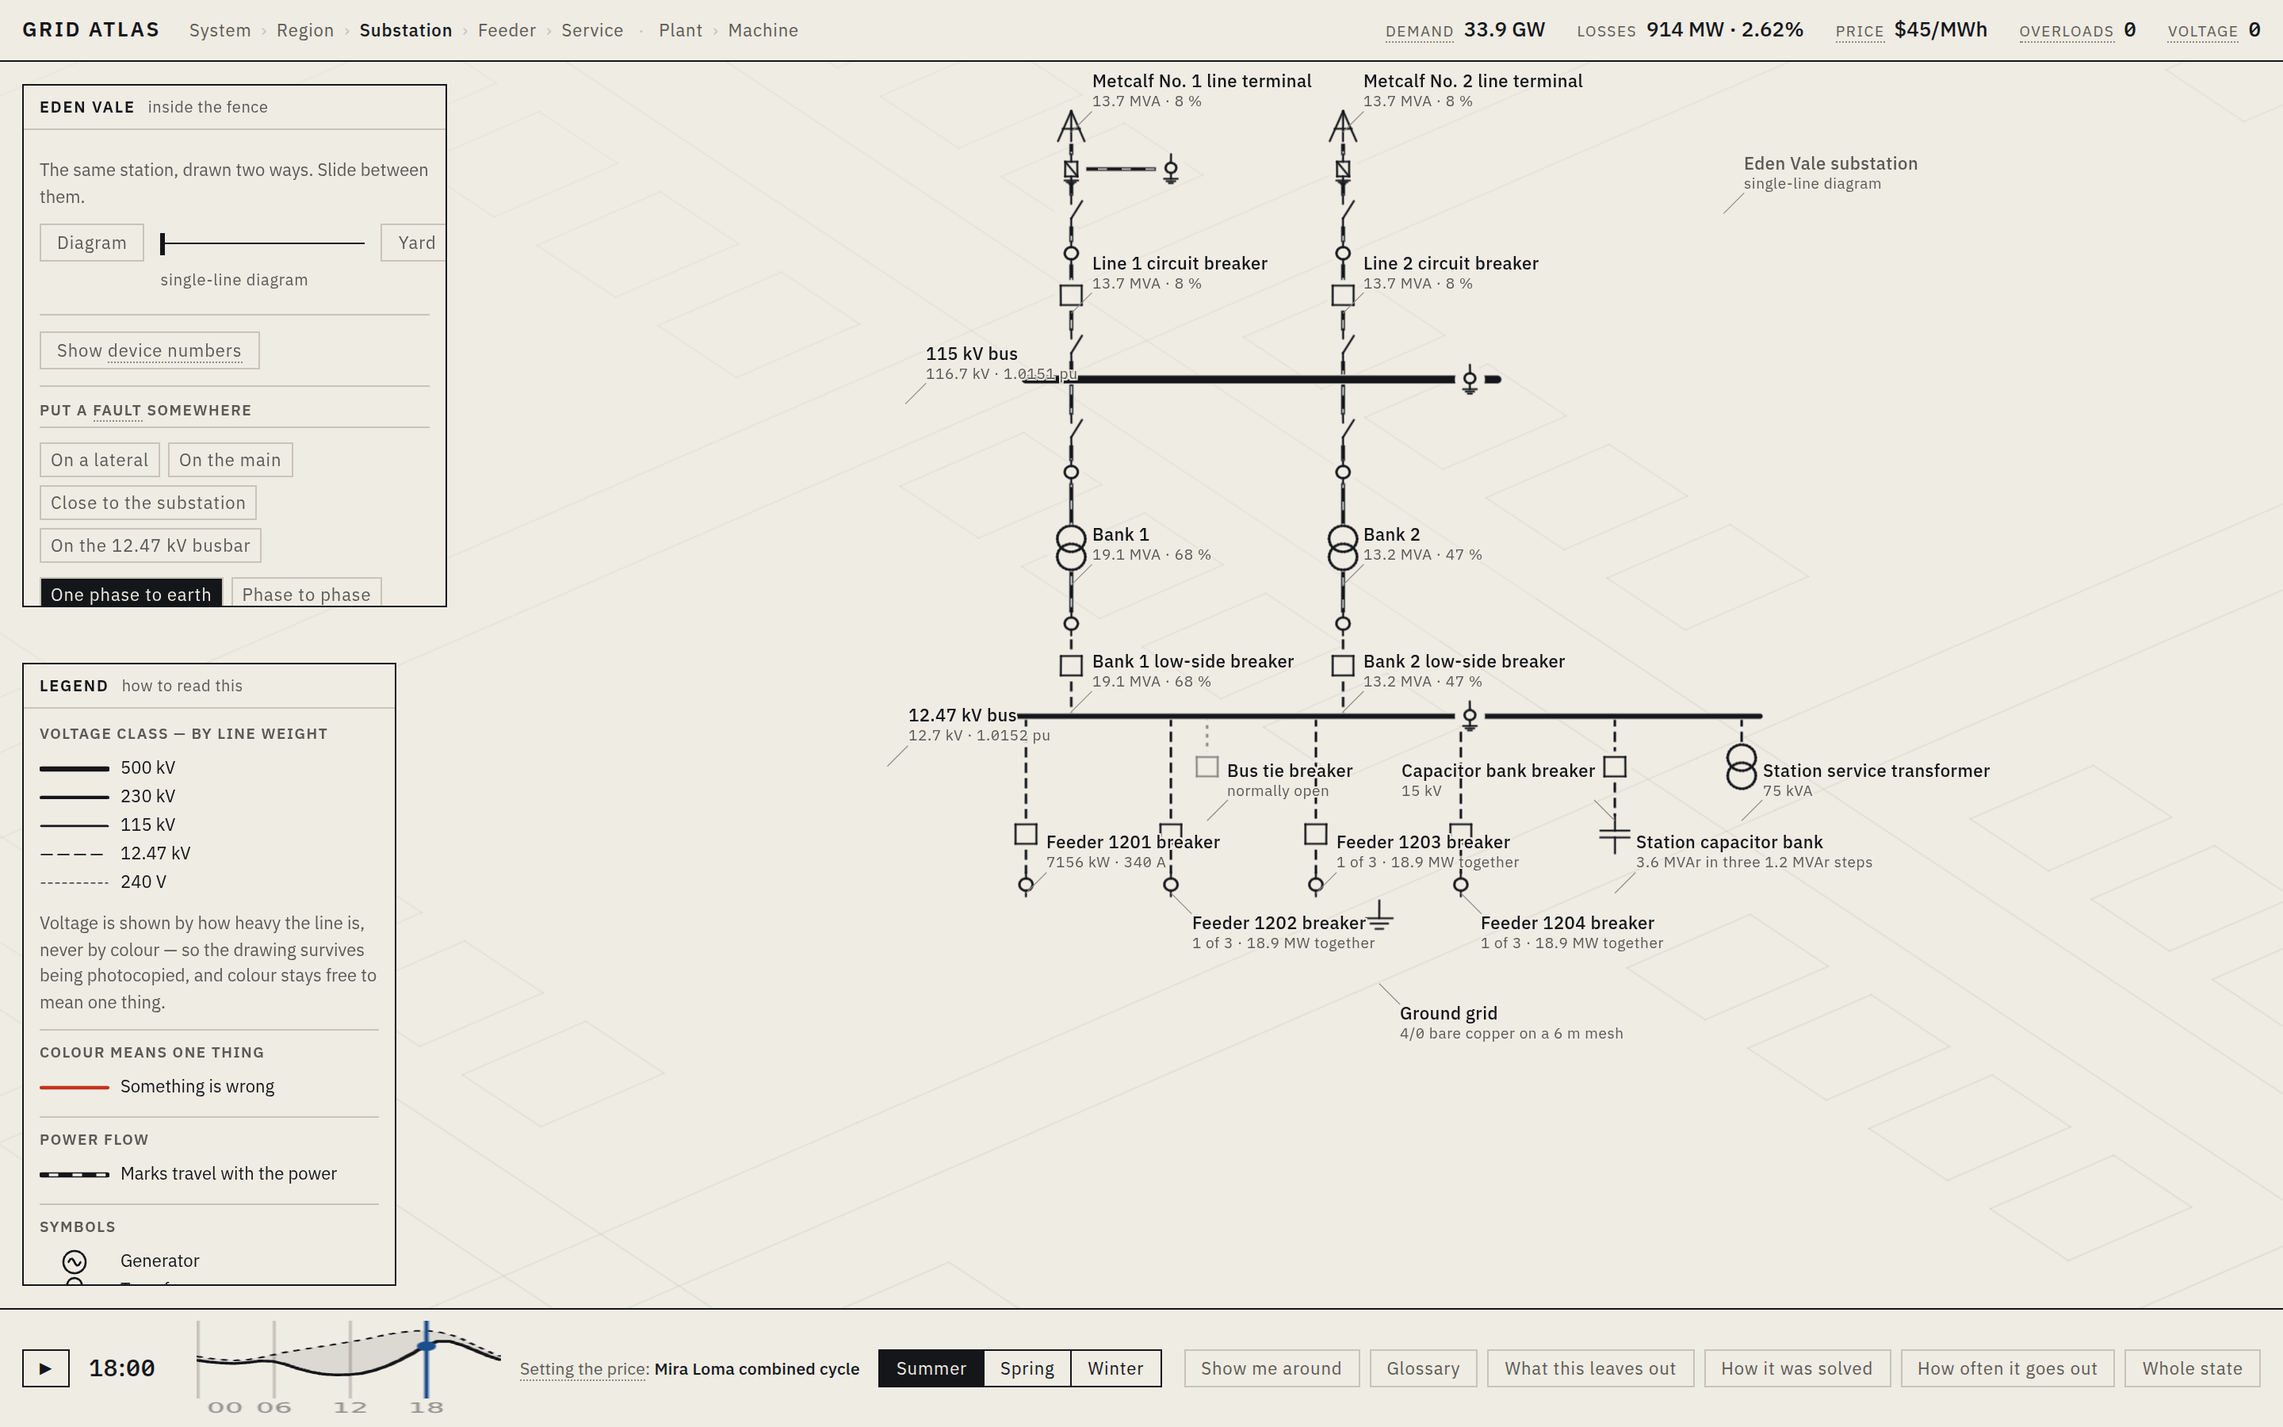
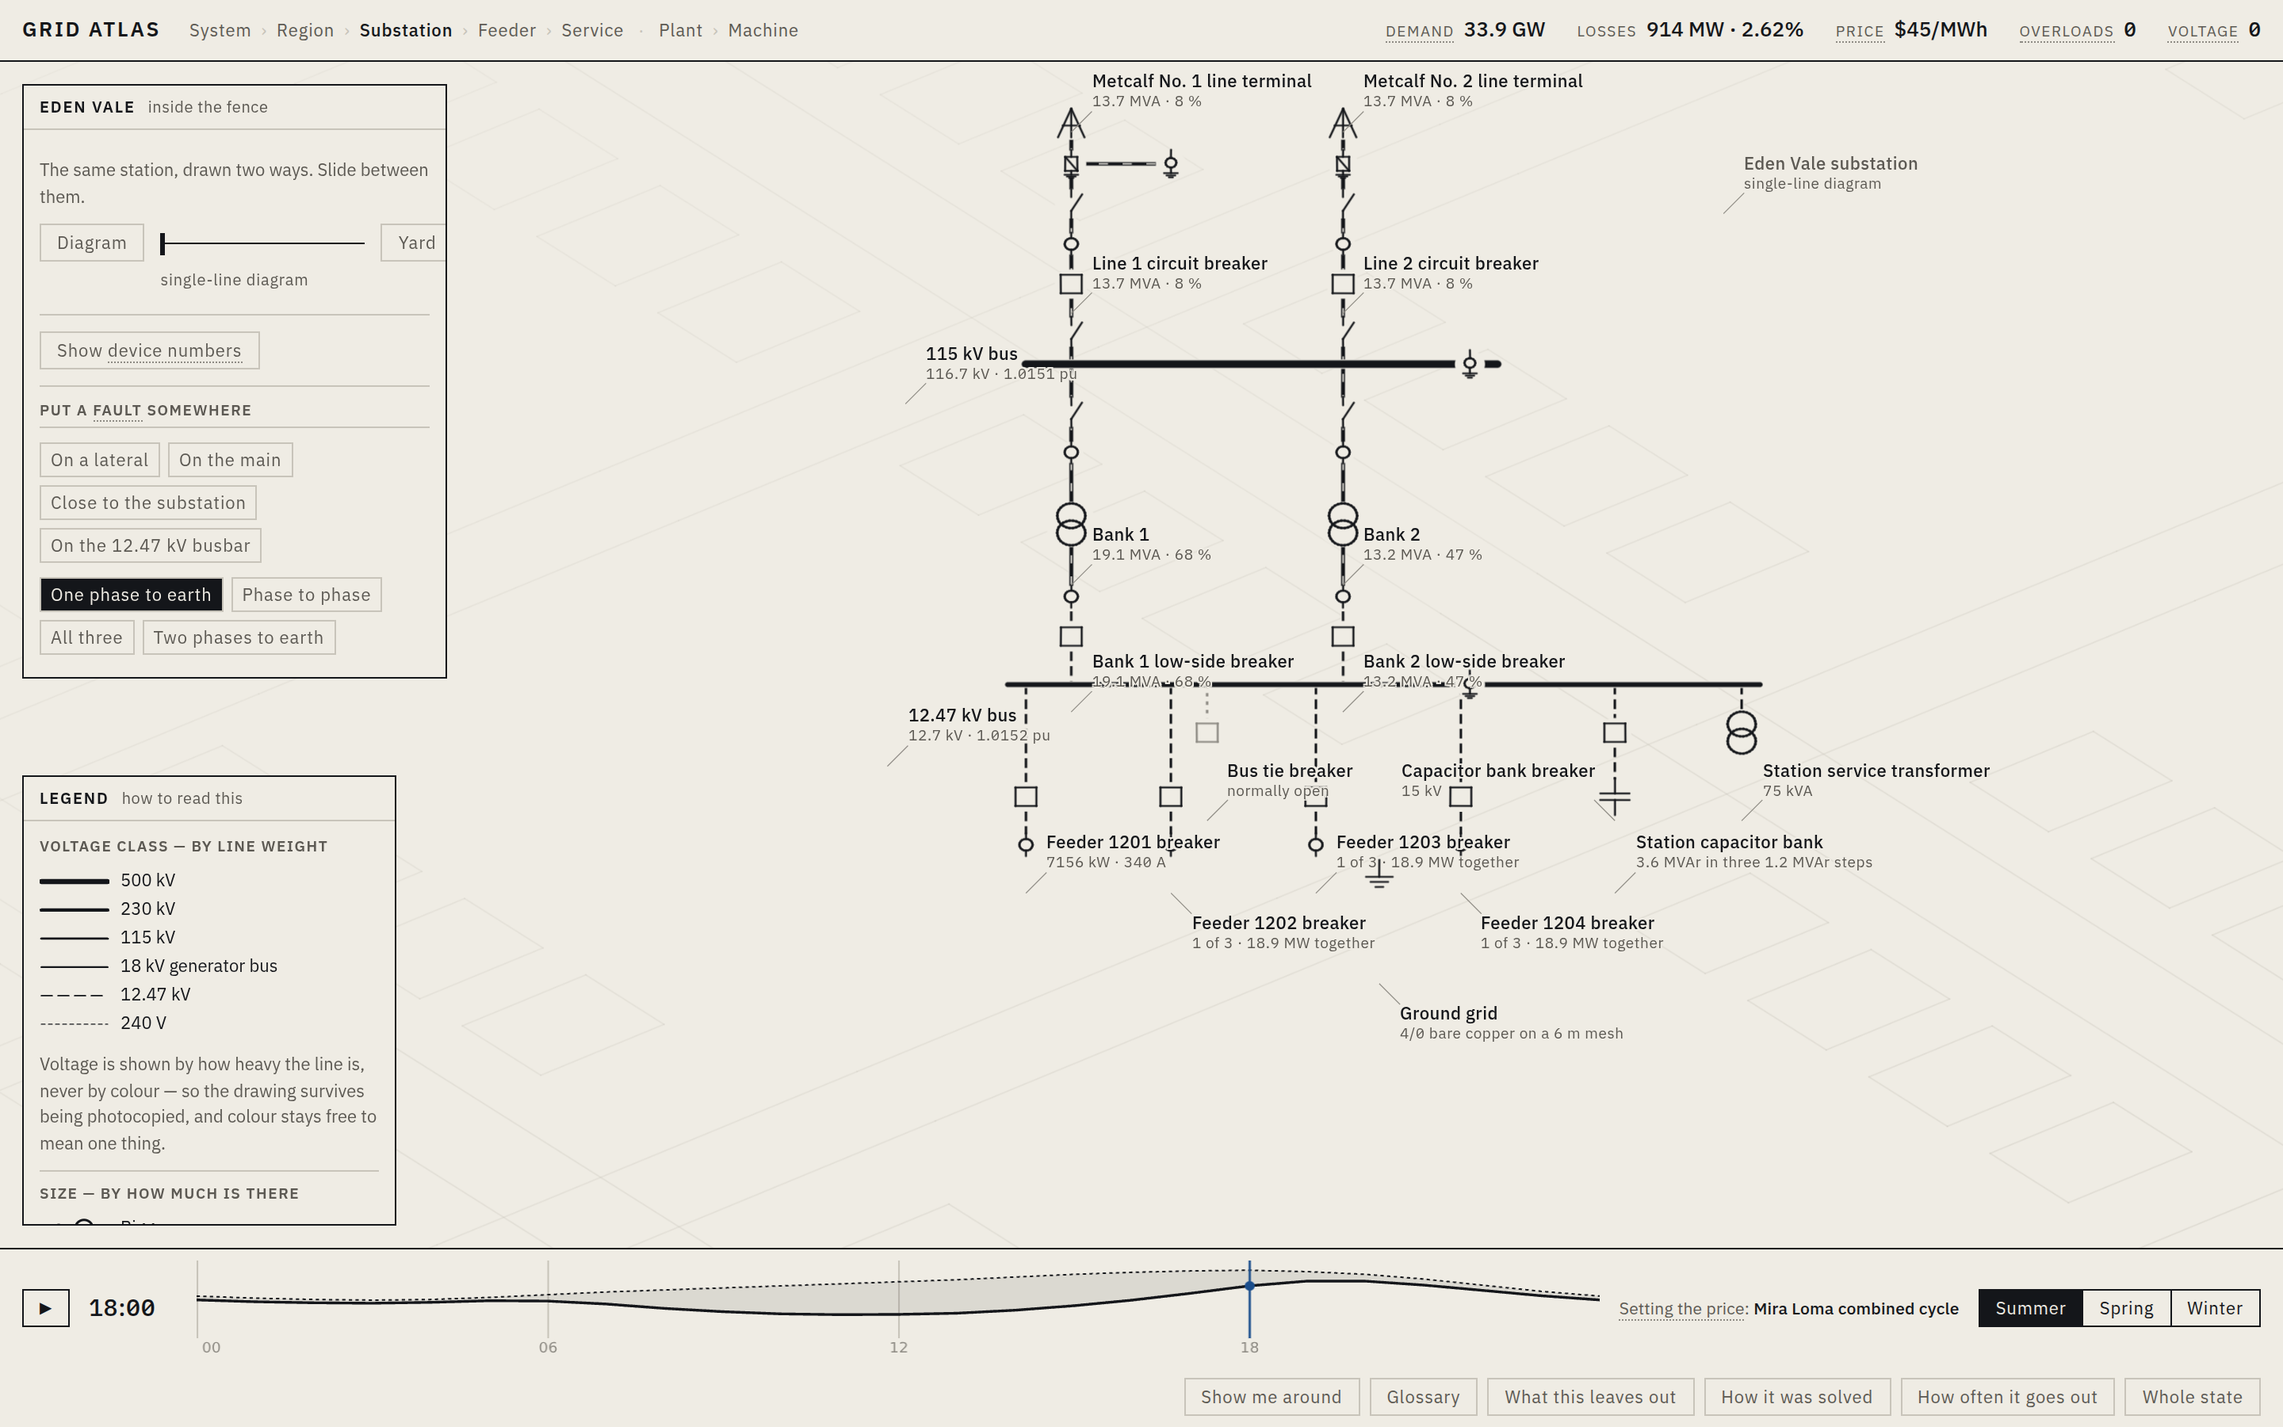
Document the quality pass, and give the controls room to breathe
docs/style.md gains the rules that were added or changed: size means quantity,
the dash means distribution rather than low voltage, a fading drawing thins as
well as pales, detail arrives as you approach, and the ground is drawn because
a power system is not in a void. The colour section gains the three borrowings
that had crept in and the test that now prevents them.

docs/decisions/0017 records what the audit found and, at the end, what is still
not right — the region scale, the 20-30 m/px gap, and the composition of the
plant and service pages. Those are real and unfixed, and writing them down
beats quietly dropping them.

Layout: the left column had two panels wanting more than the screen, so the
system panel was clipping its own numbers mid-digit. The controls get the room
first and the legend scrolls, which is the right way round — one is
interactive, the other is reference.

The two audit tools are kept in tools/: one captures every view with its
segment and label counts, the other walks all fourteen steps of the guided
path. The first run of the first one found four bugs in ten lines of output.

Claude-Session: https://claude.ai/code/session_013L3ycJKAhRgYUj1wvadxW8

diff --git a/src/app/styles.css b/src/app/styles.css
@@ -273,9 +273,11 @@ html, body {
   left: var(--pad);
   bottom: var(--pad);
   width: 236px;
-  /* Always present and always complete, but never more than half the page:
-     beyond that the legend stops being a key and starts being the subject. */
-  max-height: min(45%, calc(100% - 2 * var(--pad)));
+  /* Always present and always complete, but never more than a third of the
+     page: beyond that the legend stops being a key and starts being the
+     subject. It is reference, so it scrolls; the controls above it are not,
+     so they get the room first. */
+  max-height: min(38%, calc(100% - 2 * var(--pad)));
   display: flex;
   flex-direction: column;
 }
@@ -722,10 +724,14 @@ button, select, input {
   width: 268px;
   /* The legend owns the bottom half of this column and must never be
      covered: it is the one panel the brief requires to be always present. */
-  max-height: min(47%, calc(100% - 2 * var(--pad)));
+  max-height: min(56%, calc(100% - 2 * var(--pad)));
   display: flex;
   flex-direction: column;
 }
+/* A little room at the foot of anything that scrolls, so a partly-scrolled
+   row is sliced through whitespace rather than through the middle of a digit. */
+.panel--level .panel__body,
+.panel--legend .panel__body { padding-bottom: 14px; }
 .panel--level .panel__body { overflow-y: auto; }
 
 .level__slider {

diff --git a/docs/decisions/0017-the-quality-pass.md b/docs/decisions/0017-the-quality-pass.md
@@ -1,0 +1,120 @@
+# 0017 — The quality pass: what the audit found
+
+**Status:** adopted, after the first full review
+
+The eight phases of the brief were all built and all tested, and the result was
+still, in the reviewer's words, "a bit of a mess". That judgement was correct
+and the reasons for it were findable. This records what was actually wrong,
+because most of it was not a matter of taste.
+
+## The method: measure the frame, do not squint at it
+
+Every finding below came from instrumenting the app rather than from looking at
+one screenshot. Two tools now live in `tools/`:
+
+- **`audit.mjs`** captures every view at the scale it is meant to be seen, and
+  prints for each one: how many line segments, how many labels, the scale, the
+  breadcrumb, the panel title, and which scenes are contributing at what
+  opacity. A regression in a view nobody happened to open cannot hide.
+- **`guide-walk.mjs`** clicks through all fourteen steps of the guided path and
+  reports where each one lands.
+
+The first run of `audit.mjs` found four bugs in ten lines of output. That is
+the argument for having it.
+
+## What was actually broken
+
+**The screen went blank.** Below 0.03 m/px every scene had faded out and the
+renderer produced zero segments. A reader who kept scrolling in at a substation
+fell off the end of the world onto empty paper. There is now a per-position
+floor: how far in it is worth going depends on what is modelled underneath, so
+it is computed each frame rather than being a global constant.
+
+**The panels described the wrong thing.** Scene dominance was decided by fade
+opacity, which cannot tell a drawing that fills the window from one running off
+both edges. Standing in the Eden Vale yard the app offered feeder controls.
+Dominance is now opacity times how much of the window the scene occupies.
+
+**Three views had no panel at all** — region, plant and machine each fell
+through to whatever had been shown last.
+
+**The whole state was drawn at every scale**: 2,755 segments and 43 labels at
+1150 m/px, and the same 2,755 and 43 at 90 m/px with the network ten times the
+width of the window. Culling by closest approach rather than by bounding box
+matters here, because a 400 km diagonal circuit has a bounding box covering
+half the state.
+
+**Labels ignored scene opacity**, so a scene at a tenth of its strength still
+wrote captions at full black. Standing inside a generator, seven plant labels
+were printed over it.
+
+**The camera compensated for the panels on the left and not the right**, so the
+guided path flew to a fault and parked it underneath the panel explaining the
+fault.
+
+## What was wrong that was not a bug
+
+**The substation yard looked like scattered icons with nothing connected.** The
+drawing was correct. Two things made it read as disconnected:
+
+1. Every lead was a straight three-dimensional diagonal between device centres,
+   cutting across the bays at angles no conductor takes. A substation is
+   orthogonal — the conductor runs horizontally at height and drops vertically
+   to each device.
+2. Every device was a flat screen-aligned glyph. A symbol is exactly right on a
+   single-line diagram and exactly wrong standing in a yard, where it reads as
+   a caption pinned over the drawing.
+
+Both are now fixed, and the second is the more important: sliding from Diagram
+to Yard turns a symbol into the object it stands for, which is the transition
+the whole project is built around and the one this view was failing at.
+
+**Nothing felt lived in, because nothing was drawn but the network.** Line work
+on blank paper is how a schematic looks. There are now three ground layers —
+the Pacific shore lines, the street grid and houses around the feeder, and an
+axonometric cutaway of the house the socket is in. All at the lightest weight
+in the palette, behind everything, never labelled.
+
+**There was too much text, and it was the wrong kind.** Every panel opened with
+a paragraph; the register was heavy with stacked em-dashes and "which is why"
+chains. Roughly halved, and the numbers left to do the work.
+
+## Two rules that had quietly decayed
+
+**Colour.** The alarm vermilion had been borrowed three times, each borrowing
+individually reasonable and all three together costing the palette its only
+signal: a severity tag on a simplification the model was being candid about;
+the device that operates FIRST in a coordination study, which is the protection
+working; and a reliability index moving the wrong way under a trade-off the
+reader had chosen. All three now use weight, and a test walks the stylesheet
+and fails on any use outside a short allowlist.
+
+**The dash.** 115 kV at 1.4 px against 12.47 kV at 1.1 px is not a difference
+anybody can see, and those are the two classes that sit side by side inside a
+substation. Worse, generator leads were drawn at 12.47 kV, so an 18 kV busbar
+three metres long inside a power station carried the dash pattern that means
+"the wire along your street".
+
+The test guarding this had encoded a PROXY — solid above 100 kV, dashed below —
+rather than the rule, which is that the dash means distribution. When the
+generator bus arrived the proxy failed for the right reason and the wrong
+cause. Rewritten to assert the rule.
+
+**The general lesson**: a test that encodes a proxy for a rule will eventually
+fail on a case the rule permits, and the temptation then is to widen the proxy.
+The right move is to write down the rule.
+
+## What is still not right
+
+Recorded honestly rather than quietly dropped:
+
+- **The region scale still has no treatment of its own.** It is the system
+  drawing with fewer lines in it. The coast helps; a sense of where the cities
+  are would help more, and there is no urban-extent data in the model to draw
+  it from without inventing geography.
+- **The 20–30 m/px band is a genuine scale gap.** A feeder is three kilometres
+  and the state is a thousand; between them the model has nothing, because it
+  has one feeder rather than the several hundred a real substation area has.
+  The hand-over is now tidy rather than good.
+- **The plant and the service views are strung out** across mostly empty pages.
+  Their content is right and their layout is not composed.

diff --git a/docs/style.md b/docs/style.md
@@ -32,6 +32,16 @@ The single permitted exception is the selection highlight, `#1B4E8C`, which is
 the cursor rather than a claim about the power system — and is a cool hue
 specifically so it can never be confused with the alarm.
 
+**This rule decays quietly.** Three borrowings had crept in before a test
+caught them, each individually reasonable: a severity tag on a simplification
+the model was being candid about; the device that operates FIRST in a
+coordination study, which is the protection doing its job; and a reliability
+index moving the wrong way under a trade-off the reader had just chosen. All
+three now use weight. `test/visual-language.test.ts` walks the stylesheet rule
+by rule and fails on any use of the alarm colour outside a short allowlist,
+and the allowlist has to keep matching real selectors so it cannot rot into a
+rubber stamp.
+
 ## Voltage class is encoded by line weight, never by hue
 
 | Class | Weight | Pattern |
@@ -39,19 +49,84 @@ specifically so it can never be confused with the alarm.
 | 500 kV | 3.2 px | solid |
 | 230 kV | 2.1 px | solid |
 | 115 kV | 1.4 px | solid |
-| 12.47 kV | 1.1 px | dashed 7 / 3.5 |
-| 240 V | 0.8 px | dashed 2.5 / 2 |
+| 18 kV generator bus | 1.1 px | solid |
+| 12.47 kV | 0.9 px | dashed 7 / 3.5 |
+| 240 V | 0.6 px | dashed 2.5 / 2 |
 
-Each step down is roughly 0.65 of the one above — the smallest ratio that stays
-legible side by side at normal viewing distance. Transmission is solid and
-distribution is dashed, which is the convention on utility system maps and also
-separates the two families at a glance when they appear in the same view.
+Each step down is roughly 0.7 of the one above — the smallest ratio that stays
+legible side by side at normal viewing distance. 115 kV and 12.47 kV were once
+1.4 and 1.1 px, which is not a difference anybody can see, and those are
+precisely the two classes that sit next to each other inside a substation. The
+weights now separate.
+
+**The dash means distribution, not low voltage.** It marks the wires on the
+poles along a street and the drop from the pole to a building, and nothing
+else. Voltage was a usable proxy for that until the generator bus had to be
+drawn: 18 kV, three metres of enclosed busbar inside a power station, which
+dashed would have claimed was the wire outside your house. A test asserts the
+rule as the rule rather than as the proxy, and a second asserts that weight
+stays monotonic in voltage, which is the legend's actual claim.
 
 Widths are **screen pixels, held constant as the camera zooms**. See decision
 0006 for how.
 
 A drawing that uses colour for voltage cannot be photocopied, cannot be read by
 a colour-blind reader, and cannot then use colour for anything that matters.
+
+## Size means quantity
+
+A site symbol is drawn larger where there is more: installed generating
+capacity where there are machines, peak demand where there is load. Square
+root, so a four-gigawatt station is about six times the area of a
+hundred-megawatt one rather than forty and off the page.
+
+It used to be the highest voltage present, in three buckets, which meant a
+2.26 GW nuclear station and an empty 500 kV switchyard were drawn identically.
+At a glance the most useful thing about a site is how much machine is there,
+and the model already knows. Voltage keeps the stroke weight; size is a
+separate channel carrying a separate fact, and the legend says so.
+
+## A fading drawing thins as well as pales
+
+Where two levels cross-fade, the one being left behind loses line weight along
+with opacity, and the gap between parallel circuits closes at the same rate.
+Half-way through the hand-over from the transmission network to a feeder, full
+width at partial opacity produced two forty-pixel grey bands crossing a page
+whose subject was three kilometres of street. Pale wide bands read as damage.
+Thin ones read as a drawing dissolving, which is what is happening.
+
+Labels do the same, more bluntly: a label carries the opacity of the scene that
+emitted it, and below a third it is not drawn at all. A caption at ten per cent
+is not a faint caption — it is unreadable grey text sitting on top of the
+drawing that replaced it.
+
+## Detail arrives as you approach
+
+Nothing is drawn at a scale where it cannot be read. Houses in the
+neighbourhood layer wait until they are seven pixels across. Pole names on the
+feeder wait until the poles are far enough apart to point at — until then only
+the equipment is named. In the substation yard, once the drawing has stood up
+into a yard, only the busbars, the transformer banks and the line terminals
+keep a standing label, because with a volume under every caption the drawing
+disappears under its own text.
+
+The rule is the same in each case: a mark that cannot be read is not
+information, it is noise with a cost.
+
+## The ground is drawn, because a power system is not in a void
+
+Line work on blank paper is how a schematic looks, and this is not a schematic.
+The Pacific coast gets the shore lines engraved maps have used for three
+hundred years. The feeder gets the street grid it runs along and the footprints
+of the houses it serves. The service gets an axonometric cutaway of the house
+the socket is in.
+
+All of it at the lightest weight in the palette, behind everything, never
+labelled: at a glance it is texture, and only on a second look is it a
+neighbourhood. The coastline is real Census boundary data; the streets and
+houses are invented and the honesty register says so, but their DIMENSIONS are
+the ordinary ones of American suburban development, so the sense of scale is
+honest even though the particular houses are not.
 
 ## Depth comes from line weight and occlusion
 
